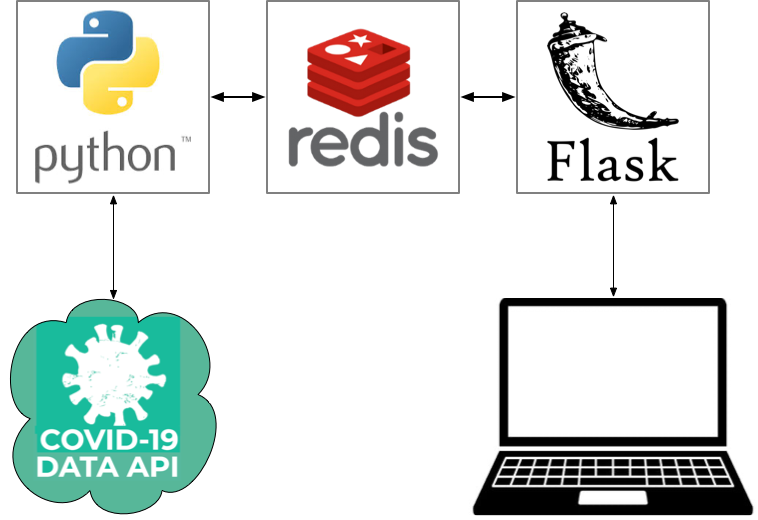
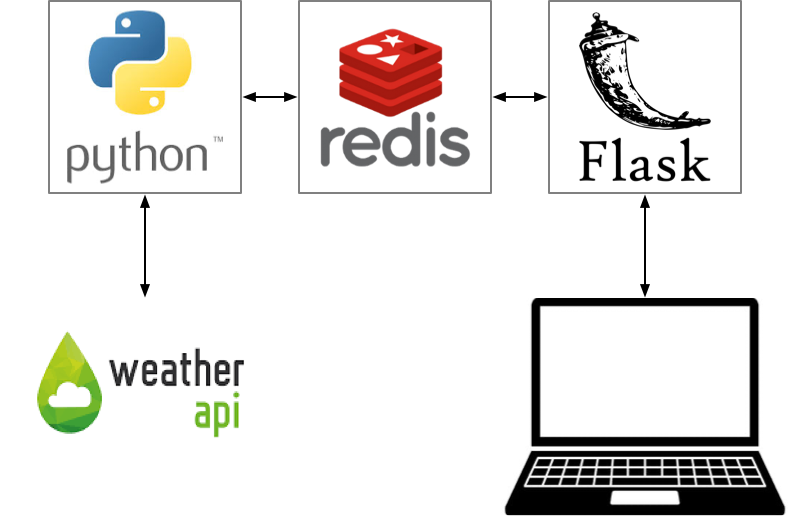
Convert to weather data

diff --git a/collector/collector.py b/collector/collector.py
@@ -9,16 +9,23 @@ dotenv.load_dotenv()
 
 host = os.getenv('REDIS_HOST')
 port = os.getenv('REDIS_PORT')
+api_key = os.getenv('API_KEY')
 
 r = redis.Redis(host=host, port=port)
 
 while True:
-    url = 'https://data.cdc.gov/resource/9mfq-cb36.json'
-    results = requests.get(url).json()
+    url = 'http://api.weatherapi.com/v1/current.json'
 
-    confirmed = sum([int(result['tot_cases']) for result in results])
+    params = {
+        'key': api_key,
+        'q': '18018',
+    }
 
-    r.set('confirmed', confirmed)
+    results = requests.get(url, params=params).json()
+
+    temp_f = results['current']['temp_f']
+
+    r.set('temp_f', temp_f)
     # Flush the buffer to ensure it is printed immediately
-    print('Saved {}. Sleeping for 15 minutes'.format(confirmed), flush=True)
+    print('Saved {}. Sleeping for 15 minutes'.format(temp_f), flush=True)
     time.sleep(15 * 60)

diff --git a/server/server.py b/server/server.py
@@ -4,19 +4,27 @@ import dotenv
 import os
 
 app = Flask(__name__)
+
 dotenv.load_dotenv()
 
 host = os.getenv('REDIS_HOST')
 port = os.getenv('REDIS_PORT')
-
 r = redis.Redis(host=host, port=port)
 
 
 @app.route('/')
 def home():
-    confirmed = int(r.get('confirmed'))
-    return 'confirmed: {}'.format(confirmed)
+    temp_f = float(r.get('temp_f'))
+    return 'temp_f: {}'.format(temp_f)
 
 
 if __name__ == '__main__':
-   app.run(host='0.0.0.0')
+    if os.getenv('REDIS_HOST') is None:
+        print('REDIS_HOST is not set')
+        exit(1)
+
+    if os.getenv('REDIS_PORT') is None:
+        print('REDIS_PORT is not set')
+        exit(1)
+
+    app.run(host='0.0.0.0', port=8000)

diff --git a/README.md b/README.md
@@ -1,5 +1,5 @@
 
-# Base COVID App
+# Base Weather App
 
 The goal of this project is to demonstrate how to set up a simple application with three components:
 
@@ -7,9 +7,25 @@ The goal of this project is to demonstrate how to set up a simple application wi
 2. The [redis](https://redis.io/) database to store data
 3. A [Flask](https://flask.palletsprojects.com/en/2.0.x/) server launched via [gunicorn](https://gunicorn.org/) to server up the data.
 
-The data used in this example is the current number of confirmed COVID-19 cases from the [COVID-19 API](https://covid19-api.com/).  
+The data used in this example is the current temperature in Bethlehem using data from the [WeatherAPI](https://www.weatherapi.com/).
 
 The "application" modeled is intentionally minimal: Every 15 minutes, the collector obtains the current count and stores it in the redis database.  The Flask server has a single end point that allows a user to fetch this data.
+
+## WeatherAPI Setup
+
+To use this application you must [signup for a free WeatherAPI key](https://www.weatherapi.com/signup.aspx).
+
+After you have signed up and confirmed your email, go to the [WeatherAPI Account page](https://www.weatherapi.com/my/) and copy your API key (near the top of the page).  To verify your API key, replace `<API_KEY>` in the following command:
+
+```
+curl "http://api.weatherapi.com/v1/current.json?q=18018&key=<API_KEY>"
+```
+
+If it succeeds, the output should be something like:
+
+```
+{"location":{"name":"Bethlehem","region":"Pennsylvania","country":"USA","lat":40.62,"lon":-75.41,"tz_id":"America/New_York","localtime_epoch":1710293264,"localtime":"2024-03-12 21:27"},"current":{"last_updated_epoch":1710292500,"last_updated":"2024-03-12 21:15","temp_c":12.2,"temp_f":54.0,"is_day":0,"condition":{"text":"Clear","icon":"//cdn.weatherapi.com/weather/64x64/night/113.png","code":1000},"wind_mph":5.6,"wind_kph":9.0,"wind_degree":240,"wind_dir":"WSW","pressure_mb":1010.0,"pressure_in":29.83,"precip_mm":0.0,"precip_in":0.0,"humidity":45,"cloud":0,"feelslike_c":11.7,"feelslike_f":53.1,"vis_km":16.0,"vis_miles":9.0,"uv":1.0,"gust_mph":9.4,"gust_kph":15.1}}
+```
 
 
 ## System Architecture
@@ -28,16 +44,17 @@ In the `collector` folder:
   pip install -r requirements.txt
   ```
 
-* Create a file `.env` that contains the hostname and port number for Redis.  We will run Redis on our laptop (`localhost`) using the standard Redis port (6379):
+* Create a file `.env` that contains the hostname and port number for Redis.  We will run Redis on our laptop (`localhost`) using the standard Redis port (6379).  Replace `<API_KEY>` with your WeatherAPI key:
 
   ```
   REDIS_HOST=localhost
   REDIS_PORT=6379
+  API_KEY=<API_KEY>
   ```
 
 ## Redis Setup
 
-* Install [Homebrew](https://brew.sh/)
+* (If needed) Install [Homebrew](https://brew.sh/)
 
   ```
   /bin/bash -c "$(curl -fsSL https://raw.githubusercontent.com/Homebrew/install/HEAD/install.sh)"
